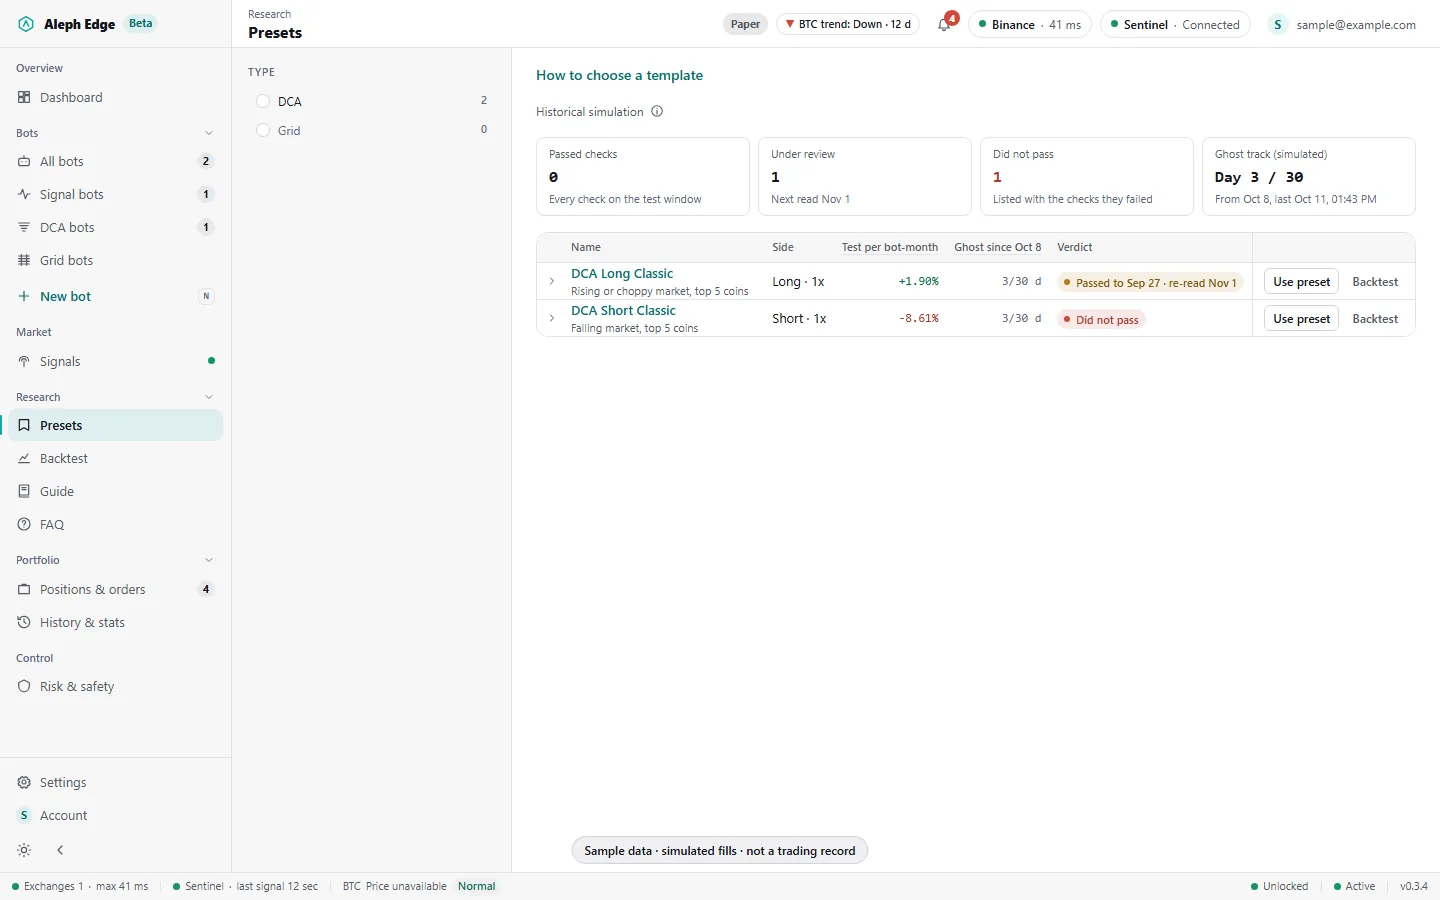
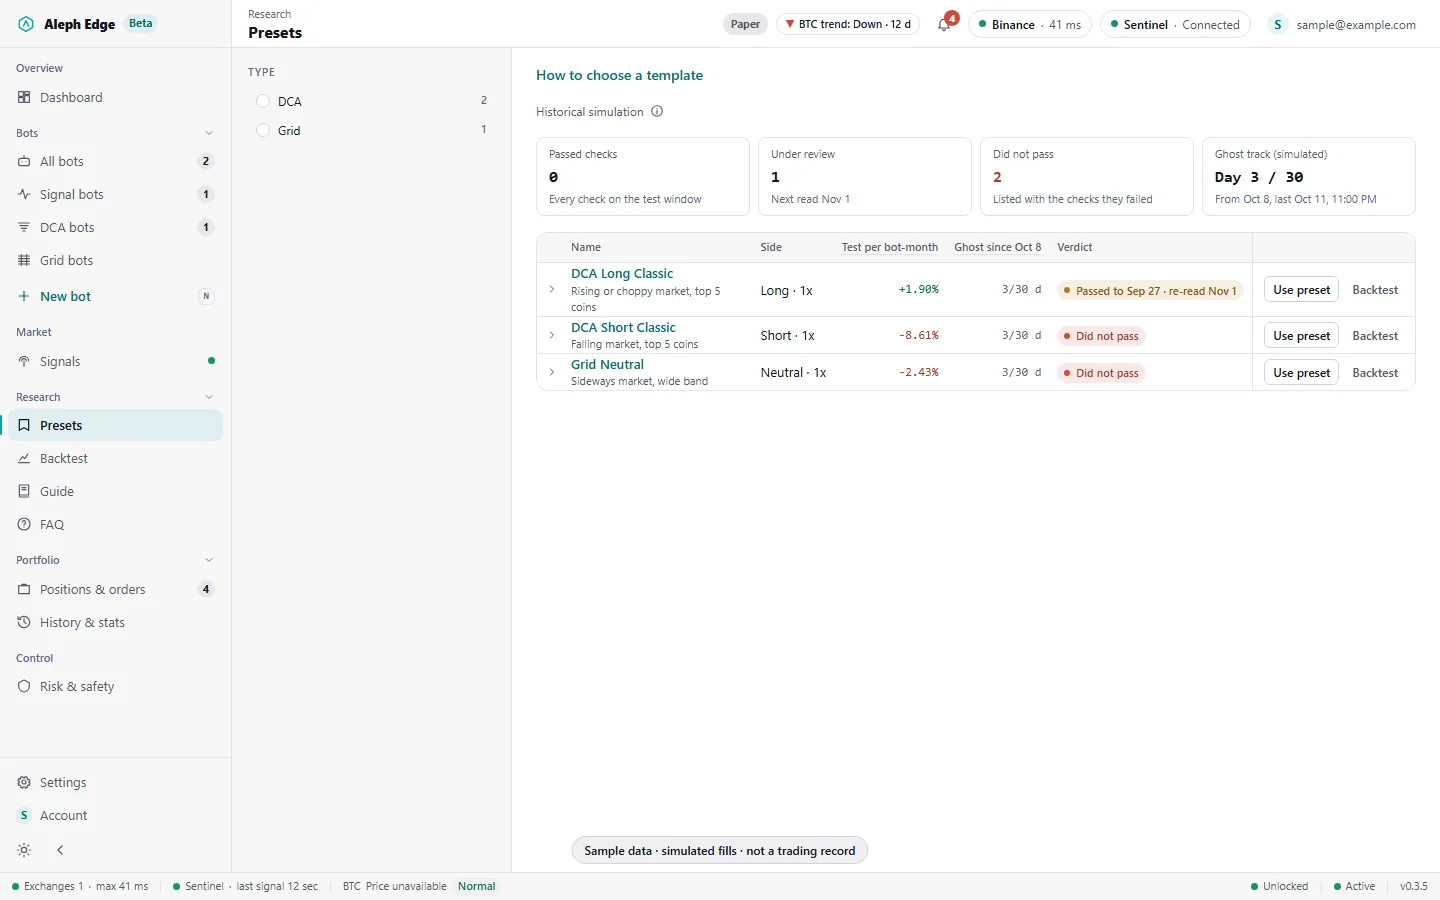
Aleph Edge 0.3.5
- Version 0.3.5.
- Preview sample data carries one grid template (Grid Neutral, with the
  figures in presets.rs), so the grid surfaces in screenshots are not
  empty; FAQ and README screenshots redone.

diff --git a/src/lib/ipc/strategy/strategy.mock.ts b/src/lib/ipc/strategy/strategy.mock.ts
@@ -427,6 +427,51 @@ export function presets(): Promise<Preset[]> {
         liquidations: 4,
       },
     },
+    // One grid template, so the preview's grid surfaces are not empty.
+    {
+      ...c,
+      id: "grid_neutral",
+      verdict: "failed",
+      failReasons: ["negativeSplit", "ciIncludesZero", "monthsNotAllPositive"],
+      situation: "rangeWide",
+      config: {
+        ...c.config,
+        name: "Grid Neutral",
+        side: "neutral",
+        presetId: "grid_neutral",
+        params: {
+          kind: "grid",
+          range: { type: "relative", lowerPct: 10, upperPct: 10 },
+          nGrids: 20,
+          spacing: "geom",
+          stopOutPct: 5,
+          trailingUp: false,
+          trailUpLimit: null,
+          takeProfitPct: null,
+          maxDurationMin: 20160,
+        },
+      },
+      history: {
+        ...c.history,
+        splits: [
+          { split: "train", meanPerBotMonthPct: -3.0, ci95LowPct: -5.7, ci95HighPct: -0.48, monthsPositive: 2, months: 7, oneBotReturnPerDayPct: null },
+          { split: "valid", meanPerBotMonthPct: -2.62, ci95LowPct: -5.56, ci95HighPct: 0.21, monthsPositive: 2, months: 7, oneBotReturnPerDayPct: null },
+          { split: "test", meanPerBotMonthPct: -2.43, ci95LowPct: -5.92, ci95HighPct: 0.85, monthsPositive: 4, months: 8, oneBotReturnPerDayPct: null },
+        ],
+        testBots: 40,
+        testShareBotsPositive: 0.475,
+        testWorstBotDrawdownPct: -34.1,
+        testMeanAtTaker010Pct: null,
+        testSignTestP: 0.6367,
+        oneBotWorstDrawdownPct: null,
+        oneBotMedianDrawdownPct: null,
+        maxDealDays: 14,
+        openDealsAtDataEnd: 3,
+        liquidations: 0,
+        stoppedDeals: 264,
+        recheck: null,
+      },
+    },
   ]);
 }
 

diff --git a/src/dev/shot/shot.mock.ts b/src/dev/shot/shot.mock.ts
@@ -32,7 +32,7 @@ const noop = () => Promise.resolve();
 
 /** About screen sample: a typical Windows installation, the user folder anonymised. */
 export const SAMPLE_APP_INFO = {
-  version: "0.3.4",
+  version: "0.3.5",
   os: "windows",
   arch: "x86_64",
   tauri: "2.11.5",
@@ -705,7 +705,7 @@ export const SAMPLE_DESK_CONTEXT: DeskContextValue = {
     binanceFuturesBase: "https://fapi.binance.com",
     binanceIsProduction: true,
   },
-  version: "0.3.4",
+  version: "0.3.5",
   keyedExchanges: SAMPLE_EXCHANGES,
   accountExchanges: ["binance"],
   accountExchange: "binance",
